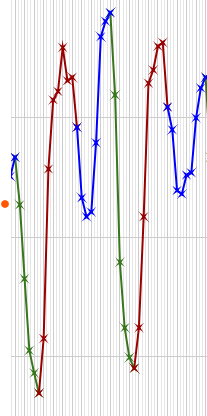
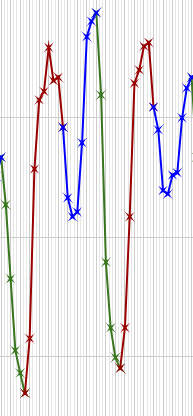
added finding that asphyxiation reflex actually occurs during exhalation!

diff --git a/_posts/2026-01-07-heart-organ-center.md b/_posts/2026-01-07-heart-organ-center.md
@@ -1,7 +1,7 @@
 ---
 title: "What makes the heart so special?"
 author: Rev. Thomas J. Pulickal
-version: v1.0c
+version: v2.0 (2026-01-28)
 tags:
 - heart
 ---
@@ -27,7 +27,7 @@ Of course, there are many other "dimensions" to emotional reactions than cardiac
 Clearly then, the heart stands out among all the organs as the most representative and truthful expression of what one is feeling. It is understandable therefore how it was supposed to be the origin or seat of emotions, morality, decisions, and even thought.
 
 ## The fine resolution of the heart
-Is your heart pounding like a drum? If so, it is probably under the reigns of your sympathetic nervous system (SNS - i.e. fight or flight system), as opposed to your parasympathetic nervous system (PNS - i.e. rest and digest system). Your SNS drives your heart whenever there is need for immediate action, such as when you spot the snake on your path, and your body needs to get high amounts of oxygen everywhere in case you need to run or fight. The PNS comes alive when you are safe and can relax at equilibrium. Remarkably, the SNS and PNS do not just switch on or off in extreme circumstances but have continuous, fine-grained resolution of the heart. In fact, the SNS gets your heart pumping faster *every time you breathe in*. Ordinarily, assuming you are not under stress, the PNS sends a constant "take it easy" signal to your heart's internal pacemaker (Sinoatrial node). But when you breathe in, receptors in your lungs notify the brain stem, which immediately inhibits this calming effect of the PNS. What results is a mild fight or flight response that triggers the rapid pumping of blood until you start exhaling.
+Is your heart pounding like a drum? If so, it is probably under the reigns of your sympathetic nervous system (SNS - i.e. fight or flight system), as opposed to your parasympathetic nervous system (PNS - i.e. rest and digest system). Your SNS drives your heart whenever there is need for immediate action, such as when you spot the snake on your path, and your body needs to get high amounts of oxygen everywhere in case you need to run or fight. The PNS comes alive when you are safe and can relax at equilibrium. Remarkably, the SNS and PNS do not just switch on or off in extreme circumstances but have continuous, fine-grained resolution of the heart. In fact, the SNS gets your heart pumping faster *every time you breathe in*. Ordinarily, assuming you are not under stress, the PNS sends a constant "take it easy" signal to your heart's internal pacemaker (Sinoatrial node). But when your lungs are stretched, receptors in your lungs keep pinging your brain stem to inhibit the calming effect of the PNS. What results is a mild fight or flight response that triggers the rapid pumping of blood.
 
 An electrocardiogram records the electrical signals of the heart's internal pacemaker. The spikes in the following image capture the main pumping action that we refer to as our heartbeat or pulse.
 
@@ -39,13 +39,21 @@ Looking closely, you will see that the spacing between the peaks varies. The tim
 ![RR Intervals]({{ site.media }}./rr_intervals.png)
 *Figure 2 - Intervals between heartbeats*
 
-Interestingly, when you first hold your breath, your heartbeat intervals get longer as expected, but after a few seconds, you experience an asphyxiation reflex and your SNS initiates a faster heart rate. If you follow a breathing pattern such as the Weil method (also called "4-7-8": inhale for 4 seconds/counts, hold for 7 seconds, exhale for 8 seconds), you may notice the asphyxiation reflex after holding your breath for just a few seconds. This SNS activation from asphyxiation subsides as soon as you start to release your breath because exhalation activates the PNS. In our way of plotting the intervals, this may appear as a dip in the middle of the otherwise rising interval durations. Notice the M-like shape that can occur due to this dip.
+Interestingly, when you first hold your breath, your heartbeat intervals get longer as expected, but after a few seconds, you experience an asphyxiation reflex and your SNS initiates a faster heart rate. If you follow a breathing pattern such as the Weil method (also called "4-7-8": inhale for 4 seconds/counts, hold for 7 seconds, exhale for 8 seconds), you may notice the asphyxiation reflex at a relatively consistent point in the cycle. In the diagram below, it occurs during the initial portion of the exhalations. However, as your lungs deflate, those stretch receptors stop putting your brain on alert and the PNS comes back in control. In our way of plotting the intervals, this may appear as a dip in the middle of the otherwise rising interval durations. Notice the M-like shape that can occur due to this dip.
 
 ![RR Intervals with holding breath]({{ site.media }}./4-7-8_rr.png)
 *Figure 3 - Intervals between heartbeats overlaid with a fitted curve*
 
 **Note:** the red line is a periodic, fitted curve to show the remarkable rhythmicity of the heart during a breathing pattern. This wave can be expressed approximately as 
 $r(n)=r_0-\frac{2}{3} s \cdot sin(\frac{2 \pi n}{P})+s \cdot cos(\frac{4 \pi n}{P})$, where $r_0$ is the average interval between heartbeats, $P$ is the number of heartbeats per respiratory cycle, $s$ is some scaling factor (in this case about 100), and $n$ is the variable representing the beat number (not time). Curves will of course look differently for different people and at different times/situations even when following the same breathing pattern. For certain people, (1) the asphyxiation reflex may dip lower and (2) the exhalation peak may climb higher than the holding-breath peak. These two facets can be modeled by (1) adding an inversely-signed, first-order sine wave and (2) phase shifting the original first-order sine wave. It could be represented simply by: $r(n)=r_0-\frac{2}{3} s \cdot sin(\frac{2 \pi (n-2)}{P})+\frac{1}{3} s \cdot sin(\frac{2 \pi n}{P})+s \cdot cos(\frac{4 \pi n}{P})$.
+
+As mentioned above, the dip -- the increased heart rate -- is caused by the asphyxiation reflex, which, in this case, occurs in the middle of exhalation. (Note: if the breathing pattern involved a longer hold, it would occur during the hold.) This is shown in greater detail below. 
+
+In the following diagram:
+* green=inhalation: speeding up
+* red=holding: slowing down
+* blue=exhalation: speeding up and then slowing down
+![RR Intervals with holding breath]({{ site.media }}./4-7-8_rr_close.png)
 
 ## The bilateral arrangement between your heart and your emotions
 So far we have spoken about the heart as the bellwether of one's emotions. The relationship is more complex. Just as the heart rate is partly a symptom of the level of one's fear or excitement, one's fear or excitement is also partly a symptom of one's heart rate. This likely happens through interoception. Your brain senses your heart rate and regulates your felt emotional state. Reducing one's heart rate can therefore lead to greater emotional calm.[^4]
